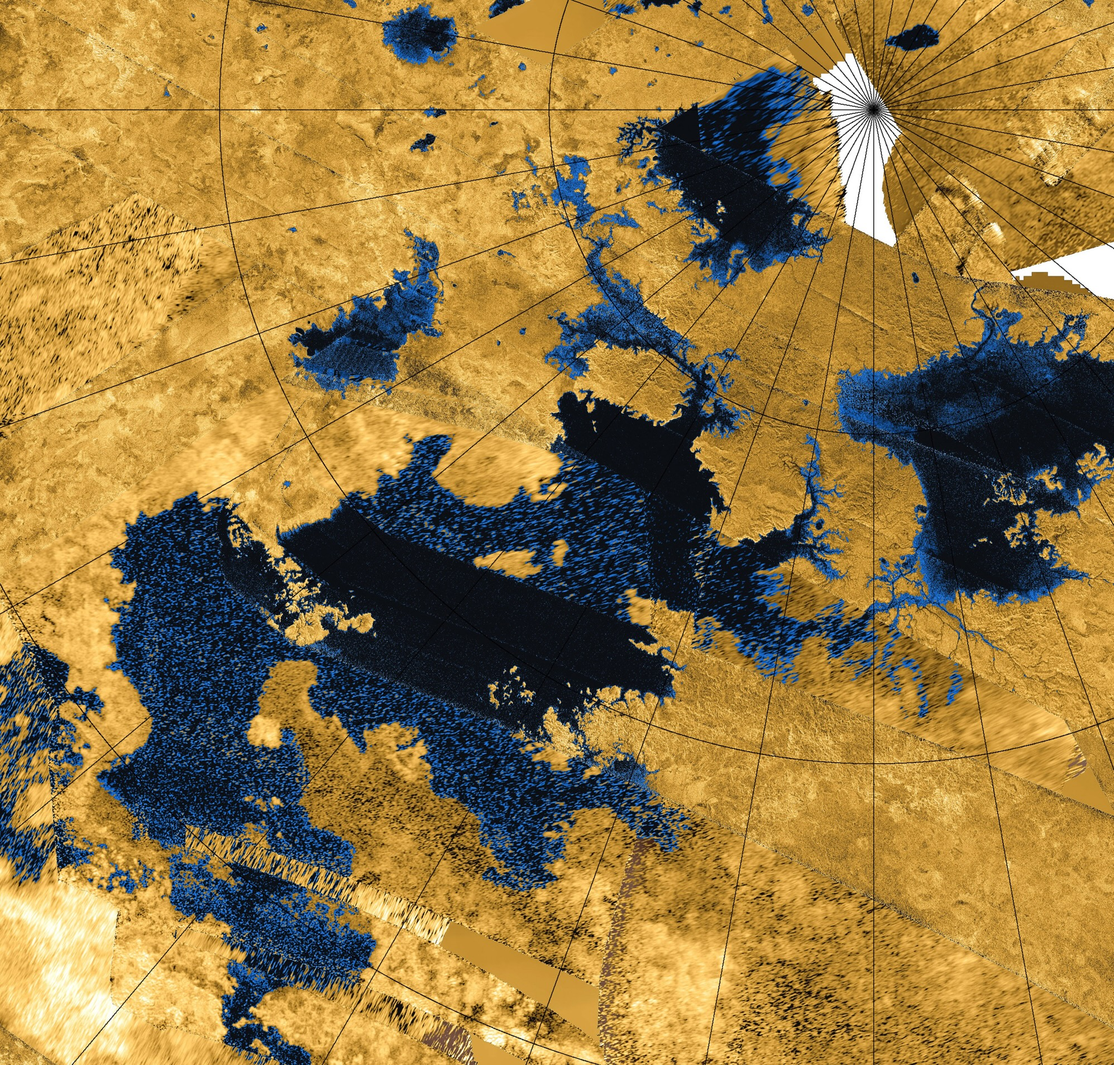
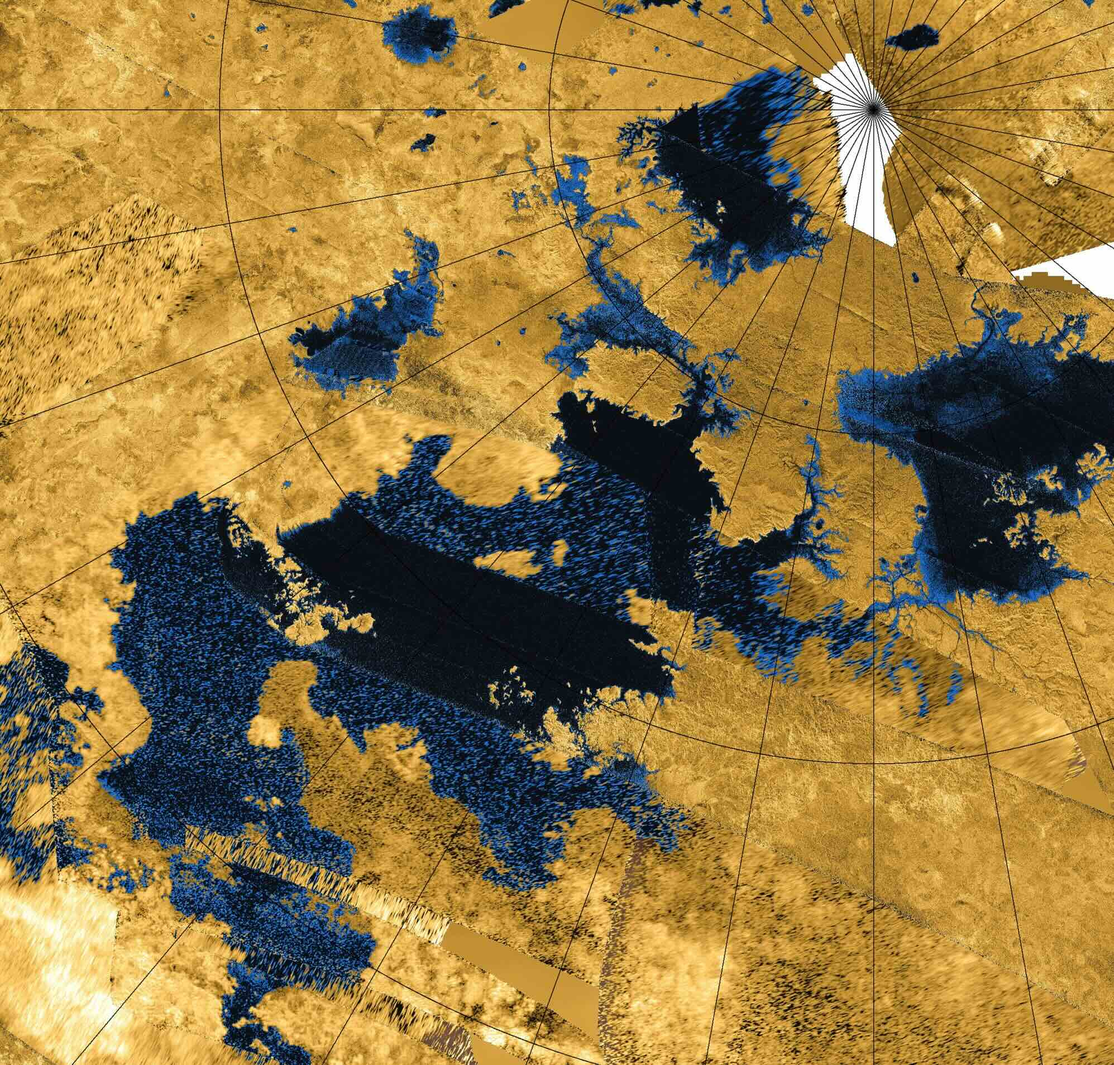
compressed images, made the site skinnier

diff --git a/assets/css/style.css b/assets/css/style.css
@@ -4,7 +4,7 @@
   --clay:#c97b5a; --clay-soft:rgba(201,123,90,.13);
   --serif:"Fraunces",Georgia,serif;
   --sans:"Public Sans",system-ui,-apple-system,"Segoe UI",sans-serif;
-  --wrap:1060px; --r:22px;
+  --wrap:820px; --r:22px;
   --shadow:0 2px 4px rgba(43,51,48,.04),0 14px 34px rgba(43,51,48,.07);
 }
 [data-theme="dark"]{
@@ -53,7 +53,7 @@ a:hover{text-decoration:underline;text-underline-offset:3px}
 /* ---------- LAYOUT ---------- */
 main{max-width:var(--wrap);margin:auto;padding:0 1.5rem 5rem}
 section{margin-top:4.5rem}
-.prose{max-width:66ch}
+/* .prose{max-width:66ch} */
 .prose p{margin:0 0 1.2rem;color:var(--ink-soft)}
 .prose strong{color:var(--ink);font-weight:600}
 
@@ -151,39 +151,26 @@ h3{font-family:var(--sans);font-size:1.02rem;font-weight:600;
   *{transition:none!important;scroll-behavior:auto!important}
 }
 
-/* ---------- TILES ---------- */
 /* =========================================================
    TILES — image left, blurb right
    ========================================================= */
-.tiles{list-style:none;margin:0;padding:0;display:grid;gap:2.6rem}
+:root{ --tile:200px; --tile-sm:136px; }   /* research / outreach sizes */
 
-.tile{display:grid;grid-template-columns:136px 1fr;gap:1.9rem;align-items:start}
+.tiles{list-style:none;margin:0;padding:0;display:grid;gap:3rem}
 
-.tile__media{margin:0;width:136px;flex:none}
-.tile__media img{
-  width:136px;height:136px;object-fit:cover;
-  border-radius:26px;                 /* rounded square */
-  box-shadow:var(--shadow);
-  background:var(--accent-soft);      /* placeholder tint while loading */
-}
-/* circular variant — for planets, portraits */
-.tile--circle .tile__media img{border-radius:50%}
+.tile{display:grid;gap:2.1rem;align-items:start}
 
-/* logo variant — contain, don't crop; white plate so logos read in dark mode */
-.tile--logo .tile__media img{
-  object-fit:contain;background:#fff;padding:1rem;
-  border:1px solid var(--line);border-radius:22px;box-shadow:none;
-}
+.tile__media{margin:0;flex:none}
+.tile__media img{object-fit:cover;box-shadow:var(--shadow);background:var(--accent-soft)}
 
-/* tiny credit line under an image */
 .tile__credit{
-  display:block;margin-top:.5rem;font-size:.68rem;line-height:1.35;
+  display:block;margin-top:.55rem;font-size:.68rem;line-height:1.35;
   color:var(--ink-soft);opacity:.75;text-align:center;
 }
 .tile__credit a{color:inherit;border-bottom:1px solid var(--line)}
 
-.tile__body{min-width:0}   /* prevents long words breaking the grid */
-.tile__body h3{margin:0 0 .55rem;font-size:1.12rem}
+.tile__body{min-width:0}
+.tile__body h3{margin:0 0 .55rem;font-size:1.14rem}
 .tile__body p{margin:0 0 .9rem;color:var(--ink-soft);font-size:.96rem}
 .tile__body p:last-child{margin-bottom:0}
 .tile__tag{
@@ -195,19 +182,36 @@ h3{font-family:var(--sans);font-size:1.02rem;font-weight:600;
 .tile:nth-child(even) .tile__tag{color:var(--clay);background:var(--clay-soft)}
 .tile__meta{font-size:.82rem;color:var(--ink-soft);margin:.5rem 0 0;opacity:.85}
 
-/* alternating sides — delete this rule if you want all images on the left */
-@media (min-width:721px){
-  .tiles--zigzag .tile:nth-child(even){grid-template-columns:1fr 136px}
-  .tiles--zigzag .tile:nth-child(even) .tile__media{order:2}
+/* ---------- RESEARCH : large rounded squares ---------- */
+.tile--photo{grid-template-columns:var(--tile) 1fr}
+.tile--photo .tile__media{width:var(--tile)}
+.tile--photo .tile__media img{
+  width:var(--tile);height:var(--tile);
+  border-radius:30px;                 /* rounded square */
 }
 
-/* mobile: shrink rather than stack, keeps it compact */
+/* ---------- OUTREACH : circular logos ---------- */
+.tile--logo{grid-template-columns:var(--tile-sm) 1fr}
+.tile--logo .tile__media{width:var(--tile-sm)}
+.tile--logo .tile__media img{
+  width:var(--tile-sm);height:var(--tile-sm);
+  border-radius:50%;                  /* circle */
+  object-fit:contain;                 /* never crop a logo */
+  background:#fff;padding:1.15rem;    /* white plate + breathing room */
+  border:1px solid var(--line);
+  box-shadow:none;
+}
+
+/* ---------- mobile ---------- */
 @media (max-width:720px){
-  .tiles{gap:2rem}
-  .tile{grid-template-columns:92px 1fr;gap:1.1rem}
-  .tile__media{width:92px}
-  .tile__media img{width:92px;height:92px;border-radius:20px}
-  .tile--logo .tile__media img{padding:.6rem;border-radius:16px}
+  .tiles{gap:2.2rem}
+  .tile{gap:1.2rem}
+  .tile--photo{grid-template-columns:120px 1fr}
+  .tile--photo .tile__media{width:120px}
+  .tile--photo .tile__media img{width:120px;height:120px;border-radius:22px}
+  .tile--logo{grid-template-columns:88px 1fr}
+  .tile--logo .tile__media{width:88px}
+  .tile--logo .tile__media img{width:88px;height:88px;padding:.65rem}
   .tile__body h3{font-size:1.03rem}
   .tile__credit{display:none}
 }

diff --git a/research/index.html b/research/index.html
@@ -55,9 +55,9 @@
   <section style="margin-top:3.5rem">
     <ul class="tiles">
 
-      <li class="tile tile--circle" id="mars">
+      <li class="tile tile--photo" id="mars">
         <figure class="tile__media">
-          <img src="/assets/img/mars.jpg" width="150" height="150" loading="lazy"
+          <img src="/assets/img/mars.jpg" width="200" height="200" loading="lazy"
                alt="Mars valley networks seen from orbit">
           <span class="tile__credit">ESA/DLR/FU Berlin</span>
         </figure>
@@ -70,9 +70,9 @@
         </div>
       </li>
 
-      <li class="tile tile--circle" id="titan">
+      <li class="tile tile--photo" id="titan">
         <figure class="tile__media">
-          <img src="/assets/img/titan.jpg" width="150" height="150" loading="lazy"
+          <img src="/assets/img/titan.jpg" width="200" height="200" loading="lazy"
                alt="Titan's northern polar seas imaged by Cassini radar">
           <span class="tile__credit">NASA/JPL-Caltech/ASI/USGS</span>
         </figure>
@@ -86,9 +86,9 @@
         </div>
       </li>
 
-      <li class="tile tile--circle" id="earth">
+      <li class="tile tile--photo" id="earth">
         <figure class="tile__media">
-          <img src="/assets/img/earth.jpg" width="150" height="150" loading="lazy"
+          <img src="/assets/img/earth.jpg" width="200" height="200" loading="lazy"
                alt="Earth rivers viewed from satellite">
           <span class="tile__credit">ESA/Copernicus</span>
         </figure>

diff --git a/assets/js/site.js b/assets/js/site.js
@@ -1,9 +1,10 @@
 (() => {
   const root = document.documentElement;
   const saved = localStorage.getItem('theme');
-  root.dataset.theme = saved
-    ? saved
-    : (matchMedia('(prefers-color-scheme: dark)').matches ? 'dark' : 'light');
+
+  // Default is ALWAYS light. OS preference is ignored.
+  // Dark mode only applies if the visitor clicked the toggle themselves.
+  root.dataset.theme = (saved === 'dark') ? 'dark' : 'light';
 
   const btn = document.getElementById('themetog');
   if (btn) btn.addEventListener('click', () => {
